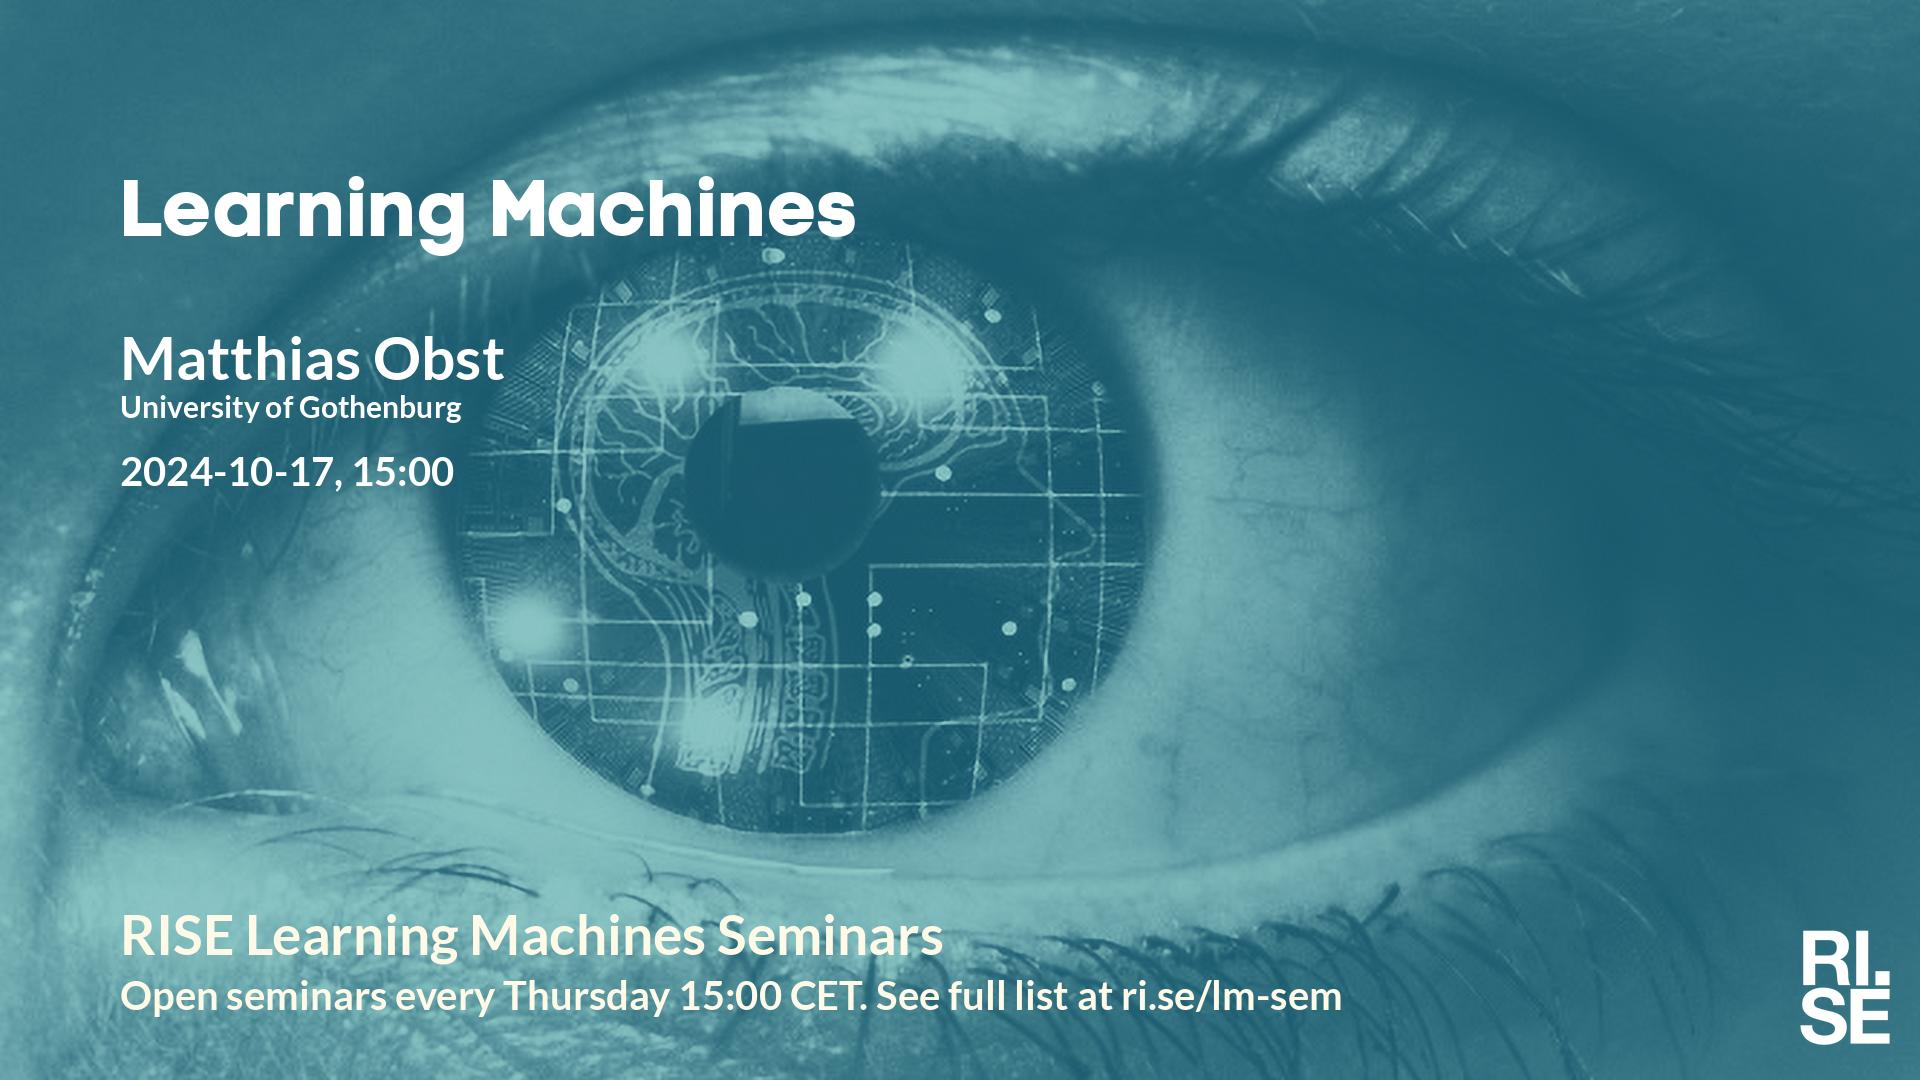
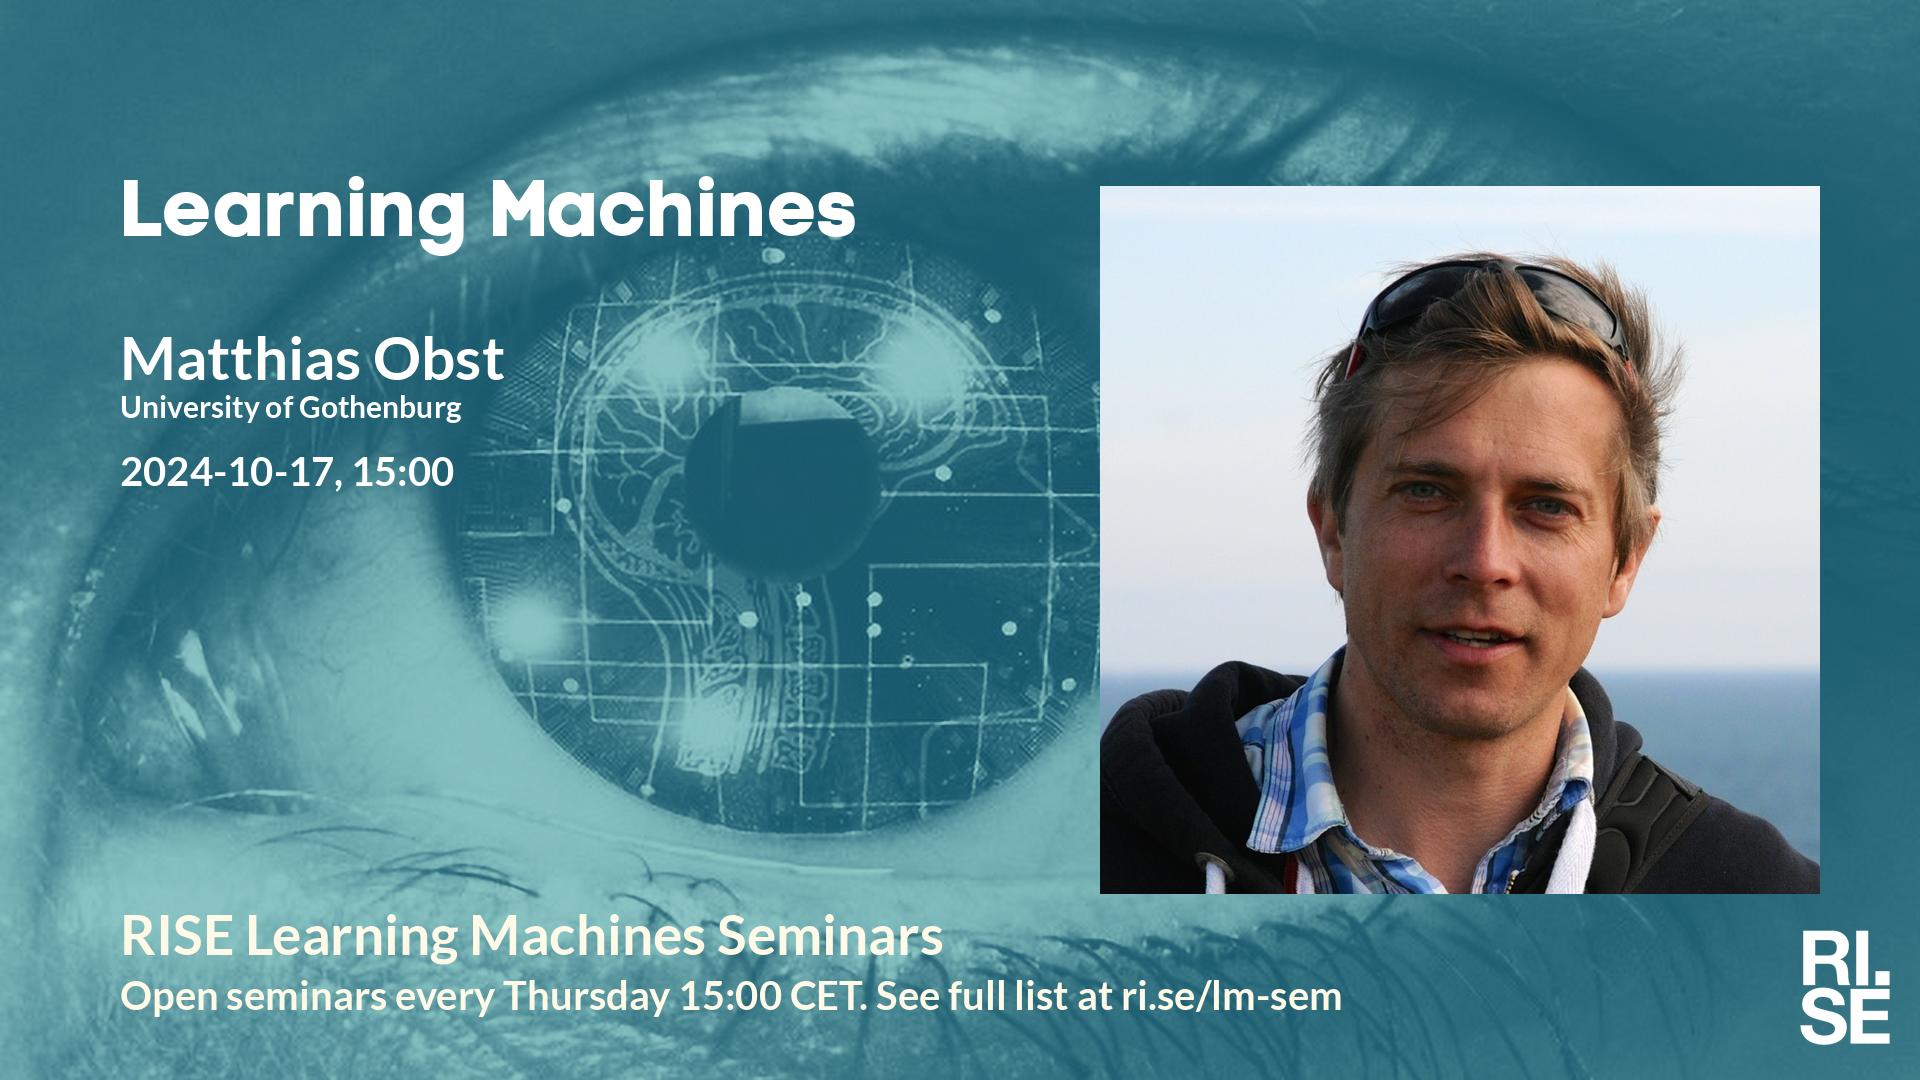
Updated plan on web site.

Changed region(s): [[0.5625, 0.1528, 0.9688, 0.825]]

diff --git a/lm/index.md b/lm/index.md
@@ -15,7 +15,7 @@ table {border-collapse: collapse;}
 |  2024-09-26  |  [Charlie Fieseler, University of Vienna](2024-09-26.md)  |    |  [social media ](social-media-charlie-fieseler.jpg)  |  [meeting backdrop ](meeting-backdrop-charlie-fieseler.jpg)  |  [youtube thumbnail ](youtube-thumbnail-charlie-fieseler.jpg)  |  S~~TABP~~  |
 | <span style="color:purple"> 2024-10-03 </span> | <span style="color:purple"> *Up for grabs!!!* </span> | <span style="color:purple">  </span> | <span style="color:purple">  </span> | <span style="color:purple">  </span> | <span style="color:purple">  </span> | <span style="color:purple"> ~~STABP~~ </span> |
 | <span style="color:grey"> 2024-10-10 </span> | <span style="color:grey"> Alp K. ? </span> | <span style="color:grey">  </span> | <span style="color:grey">  </span> | <span style="color:grey">  </span> | <span style="color:grey">  </span> | <span style="color:grey"> S~~TABP~~ </span> |
-|  2024-10-17  |  [Matthias Obst, University of Gothenburg](2024-10-17.md)  |    |  [social media ](social-media-matthias-obst.jpg)  |  [meeting backdrop ](meeting-backdrop-matthias-obst.jpg)  |  [youtube thumbnail ](youtube-thumbnail-matthias-obst.jpg)  |  S~~TABP~~  |
+|  2024-10-17  |  [Matthias Obst, University of Gothenburg](2024-10-17.md)  |  [photo](photo-matthias-obst.jpg)  |  [social media ](social-media-matthias-obst.jpg)  |  [meeting backdrop ](meeting-backdrop-matthias-obst.jpg)  |  [youtube thumbnail ](youtube-thumbnail-matthias-obst.jpg)  |  S~~TAB~~P  |
 | <span style="color:purple"> 2024-10-24 </span> | <span style="color:purple"> *Up for grabs!!!* </span> | <span style="color:purple">  </span> | <span style="color:purple">  </span> | <span style="color:purple">  </span> | <span style="color:purple">  </span> | <span style="color:purple"> ~~STABP~~ </span> |
 | <span style="color:red"> 2024-10-31 </span> | <span style="color:red"> Höstlov </span> | <span style="color:red">  </span> | <span style="color:red">  </span> | <span style="color:red">  </span> | <span style="color:red">  </span> | <span style="color:red"> CANCELLED </span> |
 |  2024-11-07  |  [Joel Oskarsson, Linköping University](2024-11-07.md)  |    |  [social media ](social-media-joel-oskarsson.jpg)  |  [meeting backdrop ](meeting-backdrop-joel-oskarsson.jpg)  |  [youtube thumbnail ](youtube-thumbnail-joel-oskarsson.jpg)  |  S~~TABP~~  |
